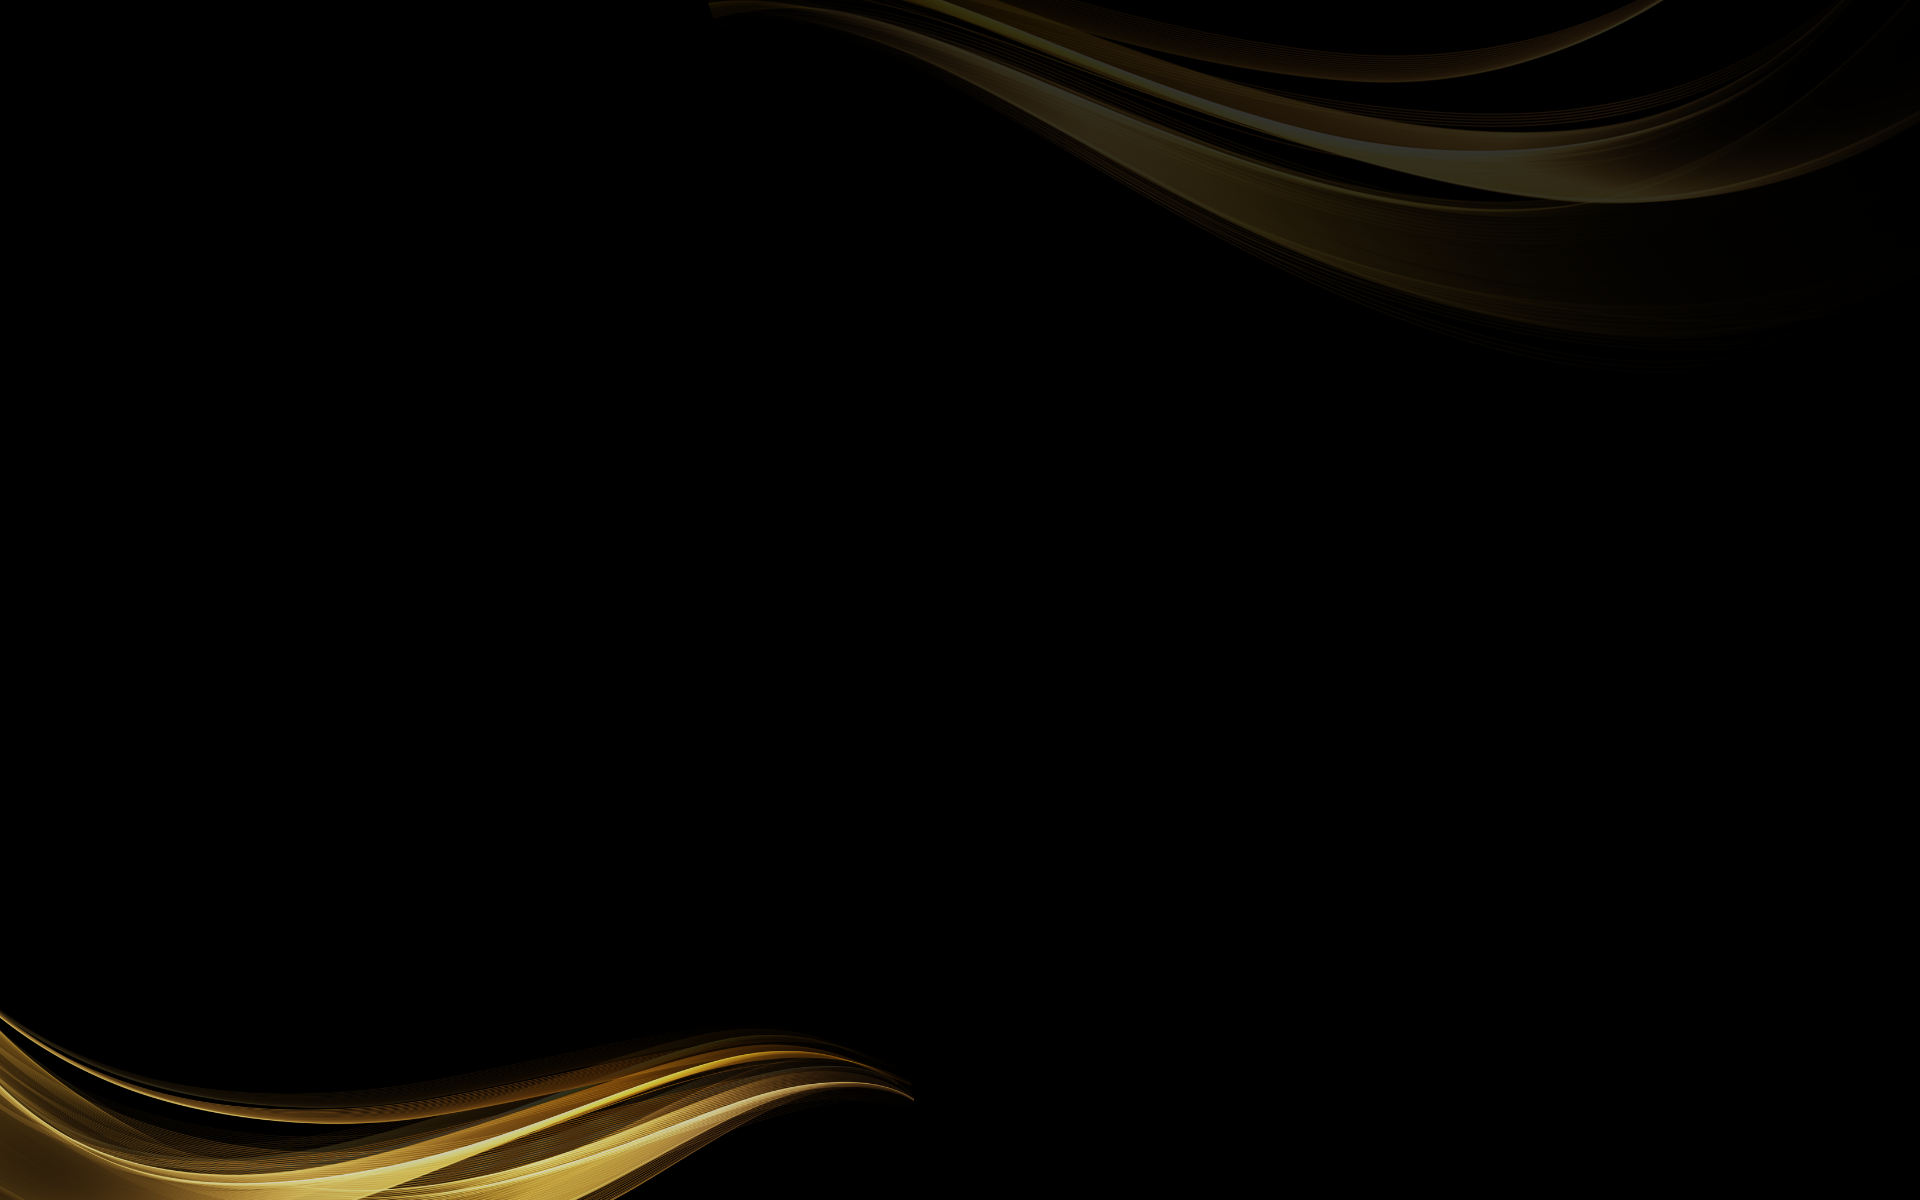
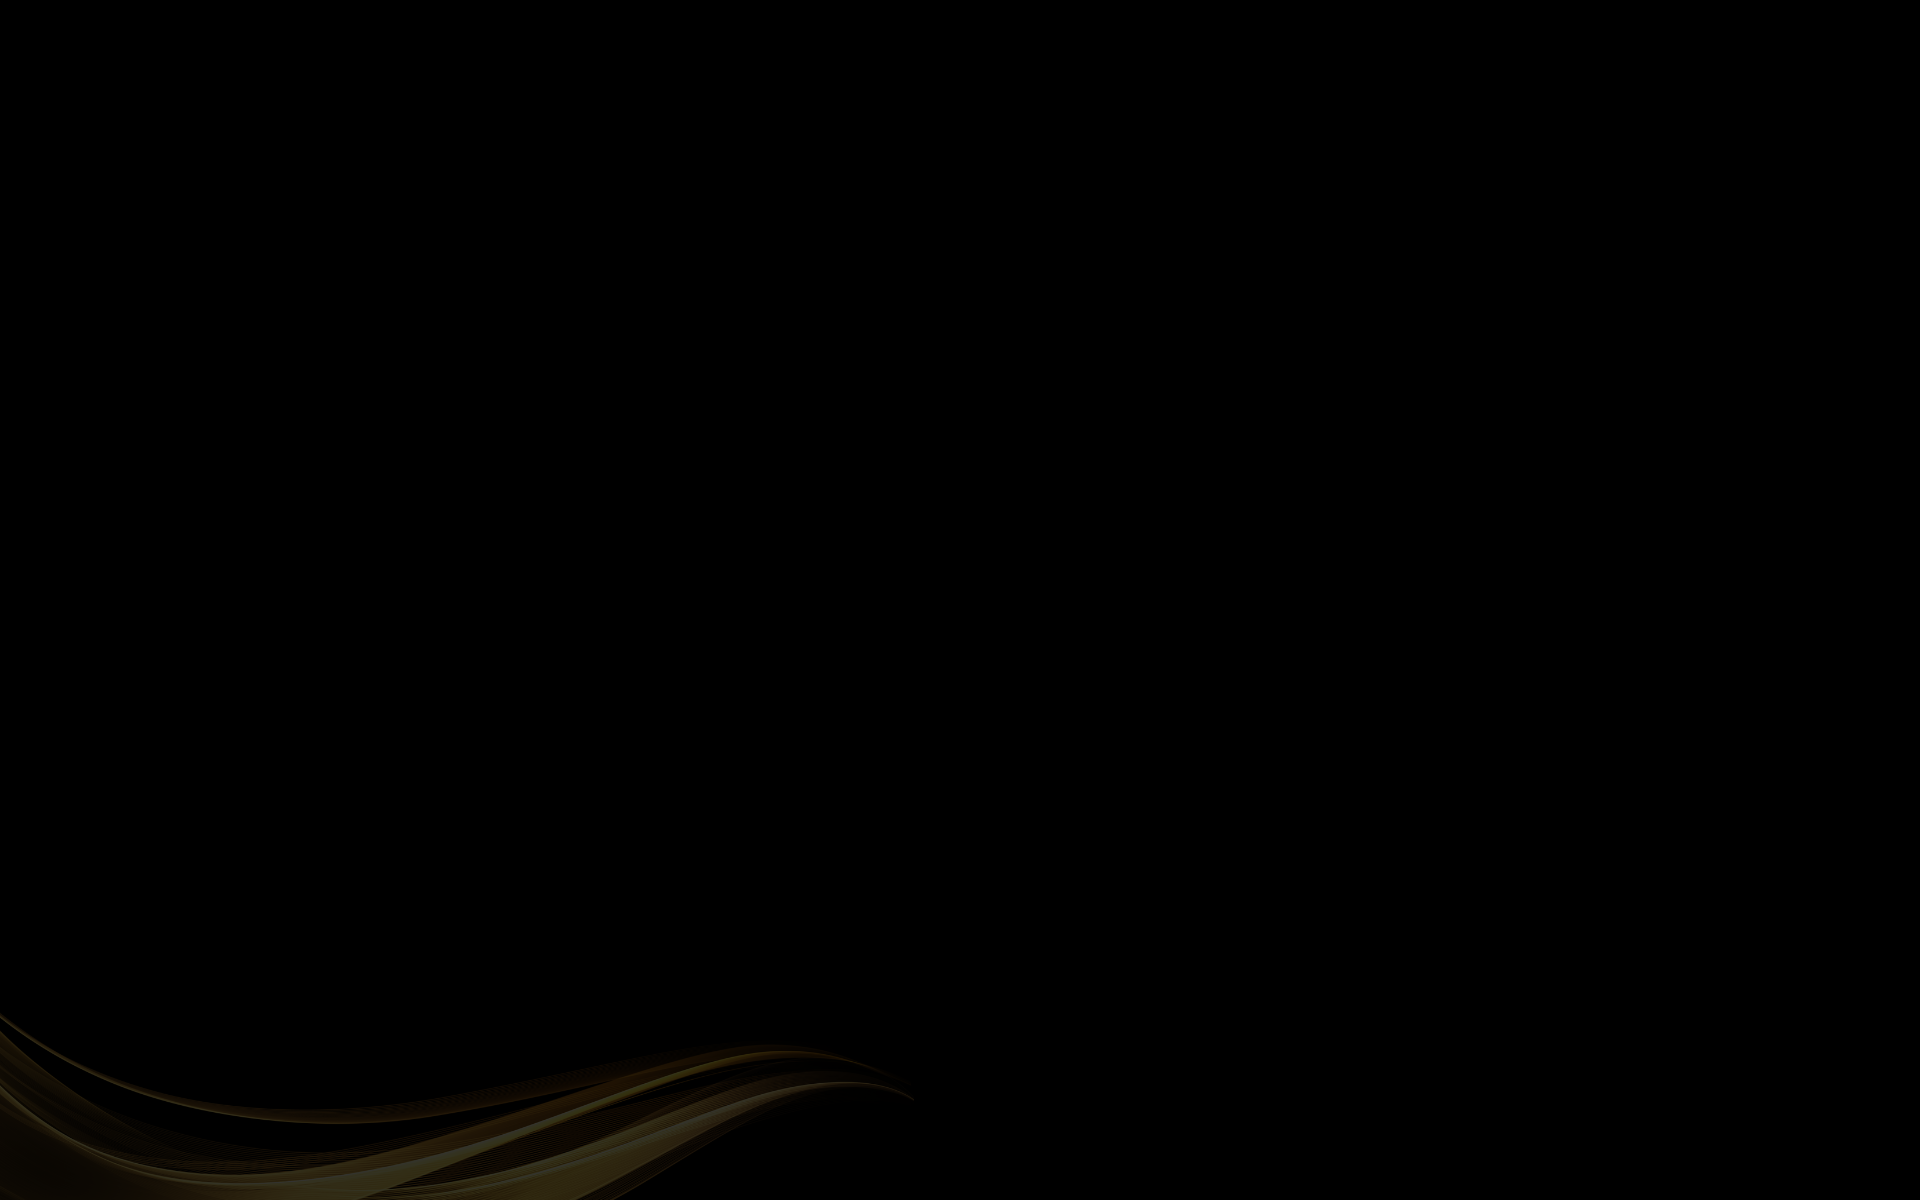
edit about the founder and other responsiveness

Changed region(s): [[0.0, 0.8325, 0.4688, 1.0], [0.4375, 0.0, 0.9375, 0.2467], [0.75, 0.0, 0.875, 0.0617]]

diff --git a/aboutUs.html b/aboutUs.html
@@ -74,7 +74,7 @@
         <!-- WHAT IS 28 SHOP -->
         <section id="aboutShop">
 
-            <img id="ring" src="Resources/Notable Pieces/Solitaire Ring.png">
+            <img id="ring" src="Resources/Notable Pieces/Solitaire Ring.png" draggable="false">
 
             <div class="textContainer">
                 <div id="aboutTitle">
@@ -86,15 +86,17 @@
                 </div>
     
                 <div id="description">
-                    <p>A Japan-based online shop established on (date), 28 Shop specializes in reselling jewelries from prominent brands through live-streams. Offering interactive shopping experience and delightful customer service, we guarantee seamless purchasing process provided with real-time personal recommendations.</p>
-                    <p>Our shop offers an exclusive selection of rings, necklaces, bracelets, and other accessories from well-known brands, ensuring authentic and high-quality products.</p>
-                    <div id="showCollBtn"><a href="products.html">SHOW COLLECTION</a></div>
+                    <p>A Japan-based online shop established on July 2020, 28 Shop specializes in reselling jewelries from prominent brands and auction pieces through live-streams. Offering interactive shopping experience and delightful customer service, we guarantee seamless purchasing process provided with real-time personal recommendations.</p>
+                    <p>Our shop offers an exclusive selection of watches, rings, necklaces, bracelets, and other accessories from well-known luxury brands, ensuring authentic and high-quality products.</p>
+                    <div id="showCollBtn"><a href="index.html#ProdIntro">SHOW COLLECTION</a></div>
                 </div>
             </div>
+
         </section>
 
         <!-- ABOUT THE FOUNDER -->
         <section id="aboutTheFounder">
+
             <div id="titleAndDesc">
                 <div id="title">
                     <h2>ABOUT THE</h2>
@@ -106,24 +108,28 @@
                     <p>Lorem ipsum, dolor sit amet consectetur adipisicing elit. Quis voluptatibus dignissimos quos distinctio temporibus dolor dolore quia asperiores deleniti accusantium nisi eligendi, aut animi perspiciatis praesentium similique veniam provident aspernatur?</p>
                 </div>
             </div>
+
         </section>
         
         <!-- MESSAGE FROM THE FOUNDER -->
         <section id="founderMsg">
+
             <img id="founderMsgBG" src="Resources/About Us Page/Message from the Author BG.png">
+            
             <div id="textContainer">
                 <div id="titleSubTitle">
                     <h2>A Legacy of Luxury</h2>
                     <h3>A Message from the Founder</h3>
                 </div>
                 <div id="bar"></div>
-                <p id="mesasge">“At 28 Shop, we believe that luxury should be effortless. Each piece is carefully selected to bring you timeless beauty and exceptional quality. To our beloved and valued customers, thank you for choosing us to add a touch of elegance to your most special moments. We are honored
-                    to be part of your journey, offering sophistication that never goes out of style.”</p>
+                <p id="mesasge">“At 28 Shop, we believe that your luxurious needs should be effortlessly met. Each piece is carefully selected to bring you timeless beauty and exceptional quality. To our beloved and valued customers, thank you for choosing us to add a touch of elegance to your most special moments. We are honored to be part of your journey, offering sophistication that never goes out of style.”</p>
             </div>
+
         </section>
 
         <!-- REVIEWS -->
-         <section id="reviews">
+        <section id="reviews">
+
             <img id="reviewsBg" src="Resources/About Us Page/Reviews BG.png">
 
             <div id="reviewsTitle">
@@ -176,7 +182,27 @@
                 <img src="Resources/About Us Page/Reviews/Review15.png" id="review14" draggable="false"> 
                </div>
             </div>
-         </section>
+
+        </section>
+        
+        <!-- PRODUCTS INTRO -->
+        <section id="ProdIntro">
+
+            <img src="Resources/Products Page/28 Shop Logo.png" id="logo">
+            
+            <img src="Resources/Products Page/Products Intro Pics.png" id="sampPics">
+
+            <div id="rightTexts">
+                <p>Rings.</p>
+                <p>Necklaces.</p>
+                <p>Earrings.</p>
+                <p>Bracelets.</p>
+                <p>Watches.</p>
+            </div>
+
+            <div id="subTitle">Where Every Piece Tells a Story of Luxury</div>
+
+        </section>
     </div>
 
     <!-- FOOTER -->

diff --git a/index.html b/index.html
@@ -198,20 +198,28 @@
                 </div>
             </div>
 
+            <img src="Resources/About Us Page/About 28 Shop Wave.png" id="wave" draggable="false">
+
         </section>
 
         <!-- ABOUT THE FOUNDER -->
         <section id="aboutTheFounder">
 
-            <div id="titleAndDesc">
-                <div id="title">
-                    <h2>ABOUT THE</h2>
-                    <h1>Founder</h1>
-                </div>
+            <img src="Resources/About Us Page/About the Author BG FINAL.png" id="aboutFounderBG">
 
-                <div id="description">
-                    <p>Lorem ipsum dolor sit, amet consectetur adipisicing elit. Consequuntur autem, dolor voluptatibus vero consectetur placeat at error ab, ullam dicta accusantium dolorum commodi consequatur. Sapiente voluptatum rerum provident? Dignissimos, mollitia.</p>
-                    <p>Lorem ipsum, dolor sit amet consectetur adipisicing elit. Quis voluptatibus dignissimos quos distinctio temporibus dolor dolore quia asperiores deleniti accusantium nisi eligendi, aut animi perspiciatis praesentium similique veniam provident aspernatur?</p>
+            <img src="Resources/About Us Page/FoundPic.png" id="founderPic" draggable="false">
+
+            <div id="abtFounderTxtContainer">
+                <div id="titleAndDesc">
+                    <div id="title">
+                        <h2>ABOUT THE</h2>
+                        <h1>Founder</h1>
+                    </div>
+
+                    <div id="description">
+                        <p>Meet Elaine Jana, the founder and CEO of 28 Shop, a distinguished jewelry shop based in Japan.</p>
+                        <p>Her exquisite taste and love for jewelry, with passion to be of service, brought about the 28 Shop; a product of dedication and diligence in token of raising economical elegance to the jewelry industry.</p>
+                    </div>
                 </div>
             </div>
 
@@ -606,7 +614,7 @@
                 </div>
             </div>
         </section>
-        </div>
+    </div>
 
         <!-- FOOTER -->
         <div class="footer">            

diff --git a/styles/aboutUs.css b/styles/aboutUs.css
@@ -17,6 +17,7 @@
     align-items: center;
     flex-wrap: wrap;
     gap: 5rem;
+    overflow: visible;
 }
 
 #aboutShop #ring{
@@ -82,29 +83,54 @@
     width: fit-content;
 }
 
+#aboutShop #wave{
+    height: auto;
+    width: 900px;
+    position: absolute;
+    top: 70%;
+    right: 0;
+}
+
 /* ABOUT THE FOUNDER */
 #aboutTheFounder{
     min-height: 100vh;
-    background-image: url('../Resources/About Us Page/About the Author BG FINAL.png');
-    background-position: center -0%;
-    background-size: cover;
-    background-repeat: no-repeat;
     position: relative;
+    padding: 0;
+    display: flex;
+    justify-content: space-around;
+    align-items: center;
+    gap: 5rem;
+    flex-wrap: wrap;
+    padding: 5rem;
 }
 
-#aboutTheFounder #titleAndDesc{
-    width: 40%;
-    position: absolute;
-    top: 60%;
-    right: 5%;
-    transform: translate(-5%, -60%);
-    margin-bottom: 3rem;
+#aboutTheFounder #founderPic{
+    height: auto;
+    width: 500px;
 }
+
+#aboutTheFounder #aboutFounderBG{
+    position: absolute;
+    height: 100%;
+    width: 100%;
+    z-index: -10000;
+}
+
+#aboutTheFounder #abtFounderTxtContainer{
+    width: 50%;
+}
+
+#aboutTheFounder #titleAndDesc,
+#aboutTheFounder #description{
+    width: 100%;
+}
+
 #aboutTheFounder #description{
     display: flex;
     flex-direction: column;
     gap: 2rem;
 }
+
 #aboutTheFounder h2, #aboutTheFounder p{
     font-family: "Sorts Mill Goudy", serif;
     color: #FFFFFF;
@@ -254,9 +280,9 @@
     pointer-events: none; 
     user-select: none; 
     -webkit-user-drag: none;
-    width: clamp(250px, 60%, 400px);
+    width: clamp(300px, 70%, 400px);
     aspect-ratio: .85;
-    margin-bottom: 3rem;
+    margin: 0 1rem 5rem 1rem;
 }
 
 /* Custom scrollbar for WebKit browsers */

diff --git a/media/aboutUsMedia.css b/media/aboutUsMedia.css
@@ -5,6 +5,25 @@
     }
 }
 
+@media (max-width: 1320px){
+    /* ABOUT THE FOUNDER */
+    #aboutTheFounder{
+        padding: 0;
+    }
+    #aboutTheFounder h2,
+    #aboutTheFounder h1,
+    #aboutTheFounder p{
+        text-align: center;
+    }
+    #aboutTheFounder #abtFounderTxtContainer{
+        width: 60%;
+        margin-bottom: 5rem;
+    }
+    #aboutTheFounder #founderPic{
+        margin-top: 5rem;
+    }
+}
+
 @media (max-width: 1177px){
     /* ABOUT 28 SHOP */
     #aboutShop .textContainer{
@@ -72,6 +91,11 @@
 }
 
 @media (max-width: 800px){
+    /* ABOUT THE FOUNDER */
+    #aboutTheFounder #founderPic{
+        width: 350px;
+    }
+
     /* FOUNDER MESSAGE */
     #founderMsg h2{
         font-size: 2.5rem;
@@ -117,13 +141,27 @@
         font-size: 1.50rem;
     }
     #aboutShop #aboutTitle .title #num{
-        font-size: 6rem;
+        font-size: 5rem;
     }
     #aboutShop #aboutTitle .title #shop{
-        font-size: 4rem;
+        font-size: 3rem;
     }
     #aboutShop #description p{
         font-size: 1.2rem;
+    }
+
+    /* ABOUT THE FOUNDER */
+    #aboutTheFounder h2{
+        font-size: 1.3rem;
+    }
+    #aboutTheFounder h1{
+        font-size: 4rem;
+    }
+    #aboutTheFounder p{
+        font-size: 1.2rem;
+    }
+    #aboutTheFounder #founderPic{
+        width: 300px;
     }
 
     /* FOUNDER MESSAGE */

diff --git a/media/productsMedia.css b/media/productsMedia.css
@@ -56,7 +56,7 @@
 @media (max-width: 840px){
     /* PRODUCTS IMAGES*/
     #Products .allProds .prodContainer{
-        grid-template-columns: repeat(1, minmax(350px, 1fr));
+        grid-template-columns: repeat(1, minmax(150px, 1fr));
     }
 
     /* PRODUCT HEADERS */
@@ -95,12 +95,20 @@
 
 @media (max-width: 480px){
     /* PRODUCTS INTRO */
+    /* #ProdIntro #logo,
+    #ProdIntro #sampPics,
+    #ProdIntro #subTitle{
+        position: static;
+    }
     #ProdIntro #logo{
-        width: 18rem;
-        top: 10%;
+        height: auto;
+        width: 5px;
     }
     #ProdIntro #sampPics{
-        width: 15rem;
-        top: 70%;
+        height: auto;
+        width: 15px;
     }
+    #ProdIntro #subTitle{
+        font-size: .75rem;
+    } */
 }

diff --git a/paymentMethods.html b/paymentMethods.html
@@ -174,8 +174,8 @@
 
                 <div id="paypay" class="specificMethod">
                     <img src="Resources/Payment Methods Page/PayPay Logo.png" id="paypayLogo">
-                    <p class="name">details</p>
-                    <p class="num">details</p>
+                    <img src="Resources/Payment Methods Page/paypayqr.jpeg" id="paypayqr">
+                    <p class="name">Kindly scan the QR above</p>
                 </div>
 
                 <div id="cebuana" class="specificMethod">
